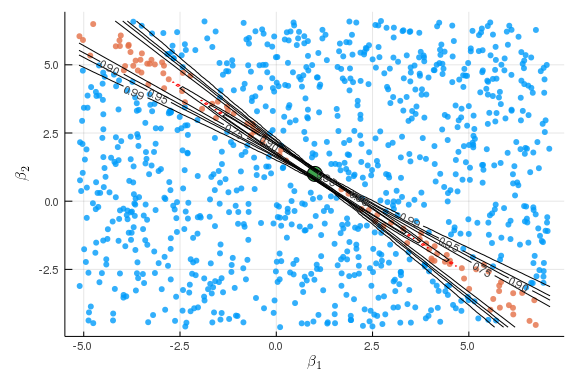
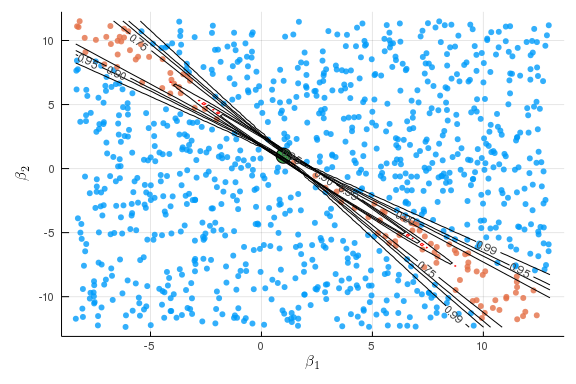
Deployed 120cb8d with MkDocs version: 1.0.4

Changed region(s): [[0.0625, 0.0312, 0.9688, 0.9375], [0.5312, 0.9062, 0.5625, 0.9688], [0.125, 0.875, 0.1562, 0.9062]]

diff --git a/extremumEstimation/index.html b/extremumEstimation/index.html
@@ -172,7 +172,7 @@ Q = β -&gt; -logit_likelihood(β,y,x)
 Q(β0)
 </code></pre>
 
-<pre><code>249.15173735183723
+<pre><code>238.07127589357123
 </code></pre>
 
 <p>Now we maximize the likelihood using a few different algorithms from <a href="https://github.com/JuliaNLSolvers/Optim.jl">Optim.jl</a></p>
@@ -303,15 +303,19 @@ Then $\hat{\theta} \inprob \theta_0$
 <h2 id="asymptotic-normality">Asymptotic normality<a class="headerlink" href="#asymptotic-normality" title="Permanent link">&para;</a></h2>
 <div class="admonition tip">
 <p class="admonition-title">Asymptotic normality for extremum estimators</p>
-<p>Assume
-    1. $\hat{\theta} \inprob \theta_0$
-    2. $\theta_0 \in interior(\Theta)$
-    3. $\hat{Q}<em N="N" _in="\in" _theta="\theta">n(\theta)$ is twice continuously differentiable in
-    open $N$ containing $\theta$, and 
-    $\sup</em> \Vert \nabla^2 \hat{Q}_n(\theta) - H(\theta) \Vert \inprob 0$ 
-    with $H(\theta_0)$ nonsingular
-    4. $\sqrt{n} \nabla \hat{Q}_n(\theta_0) \indist N(0,\Sigma)$
-Then $\sqrt{n} (\hat{\theta} - \theta_0) \indist N\left(0,H^{-1} \Sigma H^{-1} \right)$</p>
+<p>Assume</p>
+<pre><code>1. $\hat{\theta} \inprob \theta_0$
+
+2. $\theta_0 \in interior(\Theta)$
+
+3. $\hat{Q}_n(\theta)$ is twice continuously differentiable in
+open $N$ containing $\theta$, and 
+$\sup_{\theta \in N} \Vert \nabla^2 \hat{Q}_n(\theta) - H(\theta) \Vert \inprob 0$ 
+with $H(\theta_0)$ nonsingular
+
+4. $\sqrt{n} \nabla \hat{Q}_n(\theta_0) \indist N(0,\Sigma)$
+</code></pre>
+<p>Then $\sqrt{n} (\hat{\theta} - \theta_0) \indist N\left(0,H^{-1} \Sigma H^{-1} \right)$</p>
 </div>
 <p>Implementing this in Julia using automatic differentiation is pretty
 straightforward. </p>
@@ -347,27 +351,27 @@ display( avar.variance/n)
 </code></pre>
 
 <pre><code>3×3 Array{Float64,2}:
- 0.00752133  0.00099036  0.00177575
- 0.00099036  0.00724778  0.00168573
- 0.00177575  0.00168573  0.00678518
+ 0.0082288   0.00300855  0.0023737 
+ 0.00300855  0.00937819  0.0028747 
+ 0.0023737   0.0028747   0.00875331
 </code></pre>
 
 <pre><code class="julia">display( -avar.invH/n)
 </code></pre>
 
 <pre><code>3×3 Array{Float64,2}:
- 0.0077736   0.00114227  0.0020083 
- 0.00114227  0.00776277  0.00202078
- 0.0020083   0.00202078  0.00702456
+ 0.00804627  0.00254316  0.00221338
+ 0.00254316  0.0091257   0.00221339
+ 0.00221338  0.00221339  0.00870631
 </code></pre>
 
 <pre><code class="julia">display(inv(avar.Σ)/n)
 </code></pre>
 
 <pre><code>3×3 Array{Float64,2}:
- 0.00803997  0.00131238  0.00225673
- 0.00131238  0.00832172  0.0023857 
- 0.00225673  0.0023857   0.00728663
+ 0.00788701  0.0020928   0.00208543
+ 0.0020928   0.00893425  0.00155743
+ 0.00208543  0.00155743  0.0087091
 </code></pre>
 
 <p>For maximum likelihood, the information equality says $-H = \Sigma$,
@@ -797,7 +801,7 @@ optcue = optimize(ar_ivshare,
 @show βcue = optcue.minimizer
 </code></pre>
 
-<pre><code>βcue = optcue.minimizer = [0.9931521649605402, 0.992725191616838]
+<pre><code>βcue = optcue.minimizer = [2.3161241649766153, -0.43158872262489334]
 </code></pre>
 
 <pre><code class="julia">Vcue = gmmVar(βcue,β-&gt;gi_ivshare(β,y,x,z),inv(cov(gi_ivshare(βcue,y,x,z))))
@@ -805,8 +809,8 @@ display(Vcue)
 </code></pre>
 
 <pre><code>2×2 Array{Float64,2}:
-  1.49618  -1.37156
- -1.37156   1.26038
+  4.56654  -5.09988
+ -5.09988   5.71547
 </code></pre>
 
 <pre><code class="julia">plot_cr(βcue,Vcue, ar_ivshare)

diff --git a/index.html b/index.html
@@ -144,5 +144,5 @@
 
 <!--
 MkDocs version : 1.0.4
-Build Date UTC : 2019-10-22 03:36:36
+Build Date UTC : 2019-10-22 15:31:04
 -->
